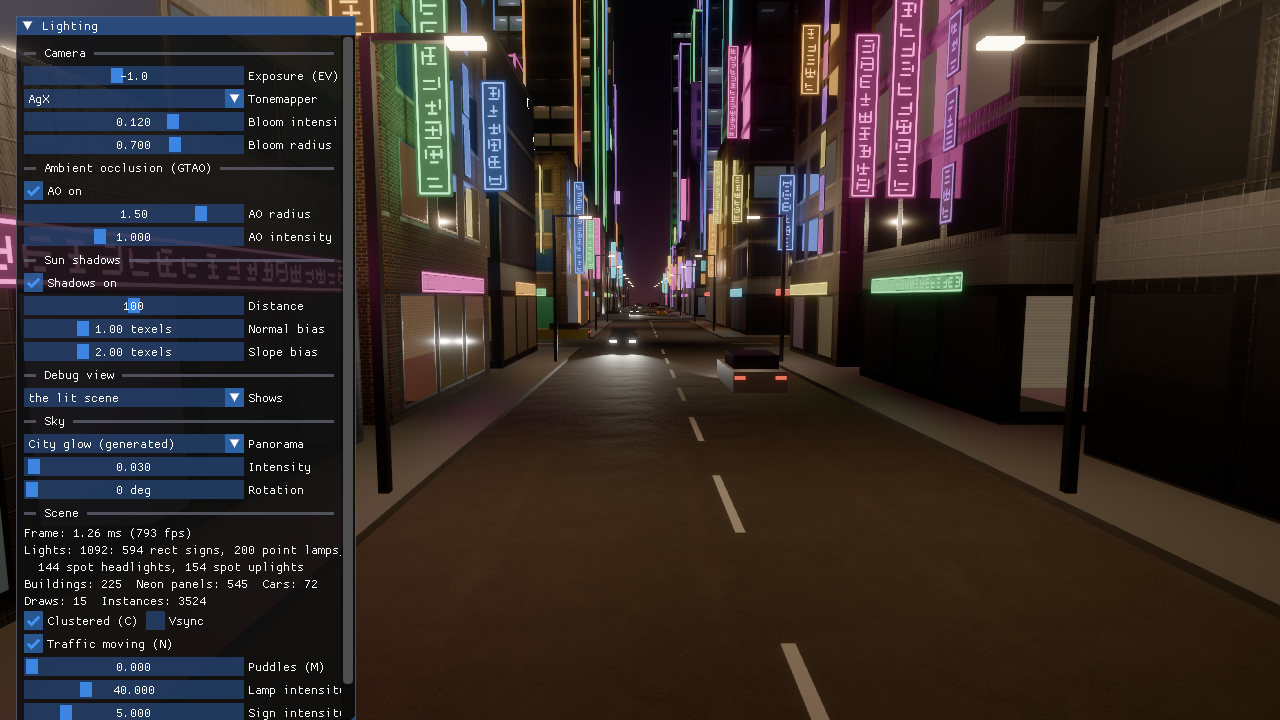
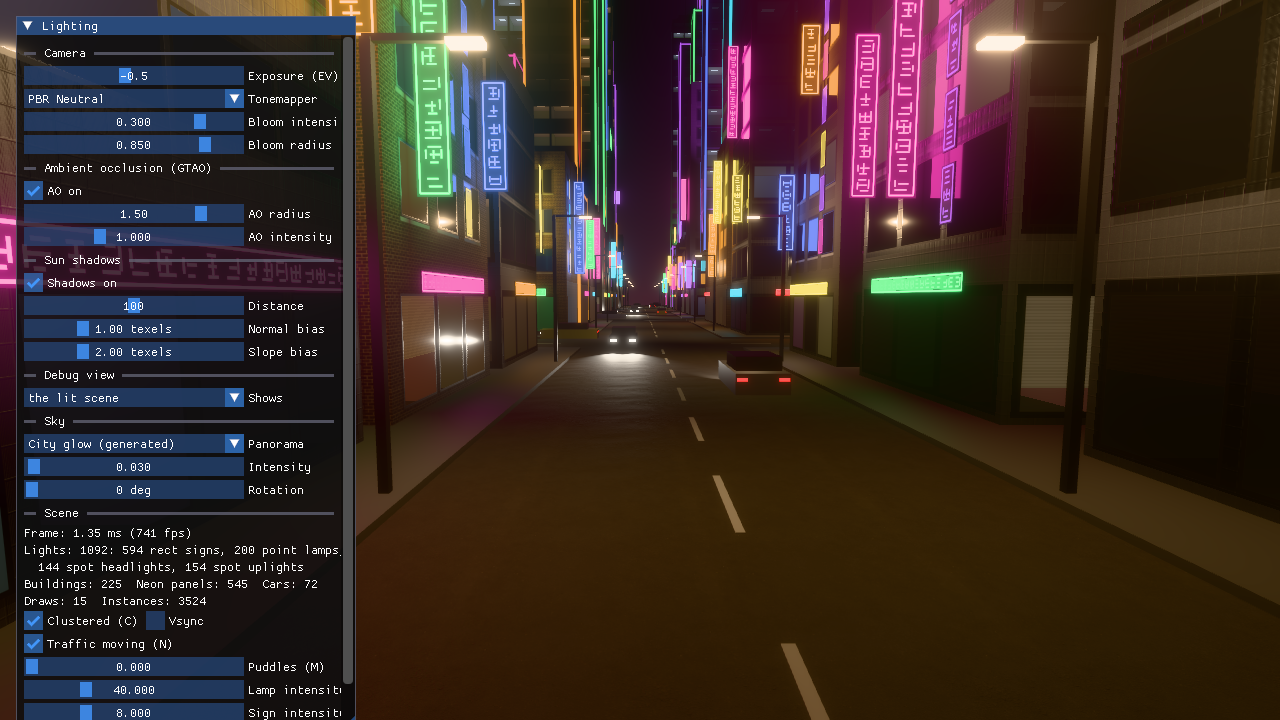
The neon city's new look: PBR Neutral at -0.5 EV, bloom 0.3 at radius 0.85, signs at 8, wetter streets (puddles 0.75, damp 0.15) so the signs' colours streak down the road; AgX stays on T (lighting 20)

diff --git a/examples/LightingDemo/src/NeonCity.cpp b/examples/LightingDemo/src/NeonCity.cpp
@@ -239,14 +239,14 @@ namespace LightingDemo
             /** @brief The neon panels on the walls, which light nothing. */
             std::size_t panels = 0;
             float lampIntensity = 40.0f;
-            float signIntensity = 5.0f;
+            float signIntensity = 8.0f;
             float headlightIntensity = 60.0f;
             /** @brief A 40-metre uplight's; longer ones are brighter by the square of their reach. */
             float uplightIntensity = 1500.0f;
             /** @brief The street material's puddles: the share of the street under water. */
-            float puddles = 0.5f;
+            float puddles = 0.75f;
             /** @brief What M brings the puddles back to. */
-            float wetPuddles = 0.5f;
+            float wetPuddles = 0.75f;
             bool moving = true;
             bool clustered = true;
             /** @brief Whether presents wait for the display; off, the frame time is the frame's own. */
@@ -892,9 +892,11 @@ namespace LightingDemo
         {
             Fenrir::AssetStore& store = app.GetResource<Fenrir::AssetStore>();
             CityState state;
-            // A night scene: the lamps' and the signs' spill is dim beside their sources, which AgX lifts at 0 EV.
-            state.lighting.exposure = -1.0f;
-            state.lighting.bloom.intensity = 0.12f;
+            // PBR Neutral keeps the neon saturated where AgX turns it pastel; T still steps to AgX. A strong, wide
+            // bloom spreads each sign's colour round it, and -0.5 EV keeps the dim spill on the upper walls at night.
+            state.lighting.tonemapper = Fenrir::Tonemapper::PbrNeutral;
+            state.lighting.exposure = -0.5f;
+            state.lighting.bloom = {0.3f, 0.85f};
             state.lighting.ambientOcclusion.radius = 1.5f;
             // Every light here is small against the dark: the sky is dim, so the neon and the lamps carry the scene.
             state.lighting.skyIntensity = 0.03f;

diff --git a/.scratch/fenrir-renderer-lighting/issues/20-neon-city.md b/.scratch/fenrir-renderer-lighting/issues/20-neon-city.md
@@ -51,9 +51,11 @@ Built 2026-11-02, stacked on ticket 19's branch (#265 to #279 not yet merged). D
 - **The sky is the demo's own city glow by default**, a magenta and orange light-pollution glow from the horizon,
   with Poly Haven's Kloppenheim 07 (Pure Sky) on S. Modern Buildings Night was tried first: its bright plaza floor,
   below the horizon, made the city read as a model on a table.
-- **Exposure -1 EV, sky 0.03, windows 0.12.** AgX lifts the lamps' dim spill on the upper walls to dusk at 0 EV, and its
-  log curve turns window emission of even 0.3 to cream. The bright neon's pale cores with coloured bloom and spill are
-  what photographs of neon show, so the signs stay bright (5).
+- **PBR Neutral, not AgX, by the user's choice after the second rework** (against cyberpunk reference renders): AgX
+  turned the neon pastel and lifted the lamps' dim spill on the upper walls towards dusk. Four looks were compared
+  with the existing post effects only; the city now starts with PBR Neutral at -0.5 EV, bloom 0.3 at radius 0.85, signs
+  at 8, puddles over 0.75 of the street and the damp asphalt at 0.15 of its roughness, so the signs' colours streak
+  down the road. Wetter (0.9, damp 0.08) turned the road to a mirror. T still steps to AgX. Sky 0.03, windows 0.12.
 - **Not asked for:** `src/DemoMaterials.*` (`EmbeddedMaterial` and `AsLinear` moved out of the forest for both scenes),
   keys N (traffic), M (wet or dry) and C (clustering), and the panel's intensity sliders.
 - **Timing (RTX 5080, 1280 x 720, 4x MSAA, 1092 lights, street level; the panel's frame time, wall clock smoothed

diff --git a/examples/LightingDemo/README.md b/examples/LightingDemo/README.md
@@ -356,8 +356,9 @@ The streets are Poly Haven's Asphalt 01, drawn by the demo's street shader (`sha
 
 The sky is the demo's own city glow (a dark blue zenith over a magenta and orange light-pollution glow from the
 horizon), or with S, Poly Haven's Kloppenheim 07 (Pure Sky), an overcast night lit from below by distant towns. Both
-are drawn at 0.03 intensity, and there is no sun. Bloom (0.12), GTAO (1.5 m) and AgX finish it, at -1 EV: at 0 EV, AgX
-lifts the dim spill on the upper walls to dusk.
+are drawn at 0.03 intensity, and there is no sun. A strong, wide bloom (0.3 at radius 0.85), GTAO (1.5 m) and PBR
+Neutral finish it, at -0.5 EV. PBR Neutral keeps the neon saturated, where AgX (T) turns it pastel and lifts the dim
+spill on the upper walls towards dusk.
 
 The window's Scene part has:
 
